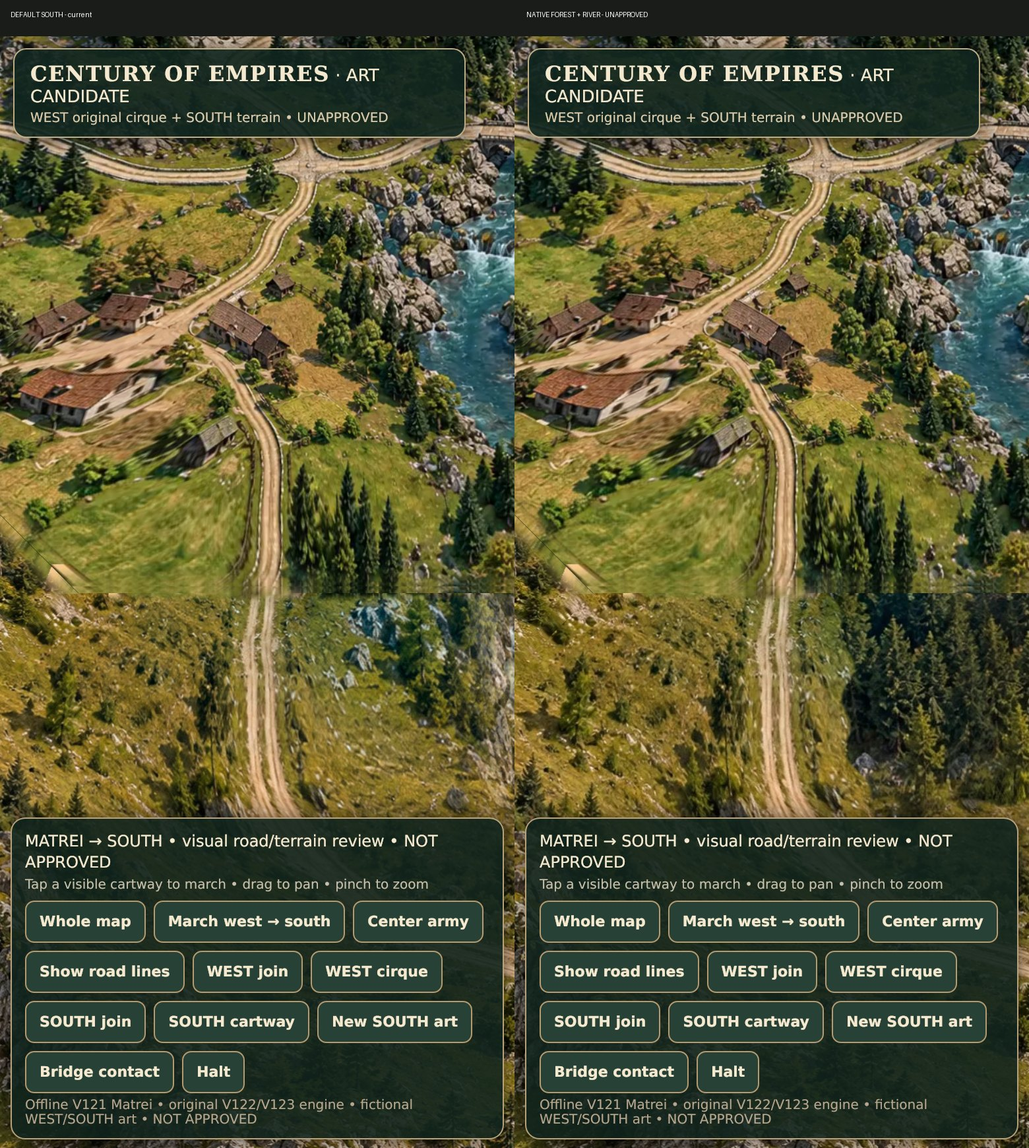
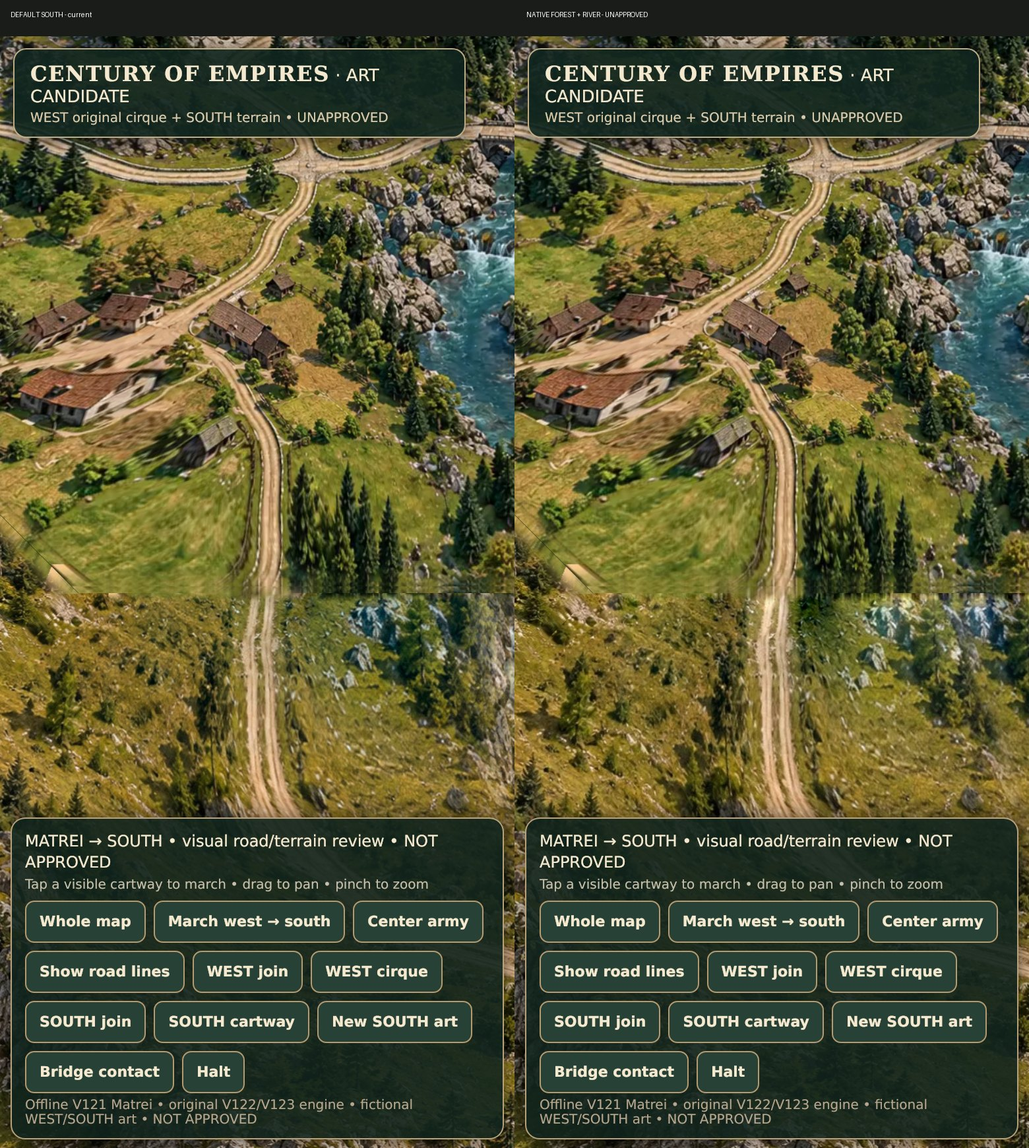
Reconstruct SOUTH native forest contact and preserve real mobile views

Changed region(s): [[0.6769, 0.4966, 1.0, 0.7138], [0.5846, 0.4966, 0.6462, 0.5586]]

diff --git a/art-reviews/v267-forest-river-continuity-review.md b/art-reviews/v267-forest-river-continuity-review.md
@@ -1,11 +1,10 @@
-# V267 SOUTH native forest/river contact — UNAPPROVED
+# V267 native SOUTH riverbank and forest contact — UNAPPROVED
 
-Fictional Alpine artwork; not a claim about 1780–1880 topography.
+Fictional original Alpine game art, not historically verified terrain.
 
-Rebuilt approximately 260×260 pixels of the northern SOUTH forest with a 1:1 native photographic conifer stand. The Matrei boundary previously dropped directly into bare SOUTH meadow. The new forest line is irregular and ends naturally in the meadow; no global terrain warp or digital road stripe was added. The actual cartway at x466, river and stone bridge at x>900, and terrain below y370 are unchanged from the previous river-east candidate. The older source remains durably stored. This reuses the SAME opt-in ?southArt=river candidate, not a new mode.
+The previous cloned rectangular forest stand is removed. The full 1536×1024 native SOUTH photographic terrain is restored from the earlier durable river-east source, preserving the original meadow, individual conifers, cliff faces, turquoise gorge and stone bridge. A 270px northern material-contact region uses a three-scale photographic boundary reconstruction against the actual rendered Matrei bottom edge: 18px fine, 92px medium and 270px broad. No pixels are translated, resized or mirrored; no synthetic road or route graph edges are introduced. The x466 original cartway geometry, bridge below y270 and all lower SOUTH art are untouched. The protected V121 source, 100-node V123 graph, V94 campaign, sprites, saves and production are unchanged.
 
-Remaining visual risk: the Matrei/SOUTH cliff and water material transition may still be visible; physical iPhone review required. Passing browser route tests alone does not approve the art.
+This remains an OPT-IN ?southArt=river candidate. Actual browser phone-size views and physical iPhone review are needed. The cliff and river morphology still differ across the boundary, and pixel contact alone does not constitute visual approval. Production RED.
 
-Source SHA256: 40436e70d3306e836055161017f6514a00dec6875138beca2681db712dab667d
-Candidate SHA256: 217c639724744f0ae62ef14b8871890df6c03b84f7e73845d7efa2f77bdc6d8f
-Protected: V121 Matrei, V123 graph, V94 campaign, sprites, saves, main. Production RED.
+Input SHA256: 40436e70d3306e836055161017f6514a00dec6875138beca2681db712dab667d
+Output SHA256: e5e7babe4d8cedb0f26d10c96810623ef7496512cb7a0725717fc9eba607aa23
